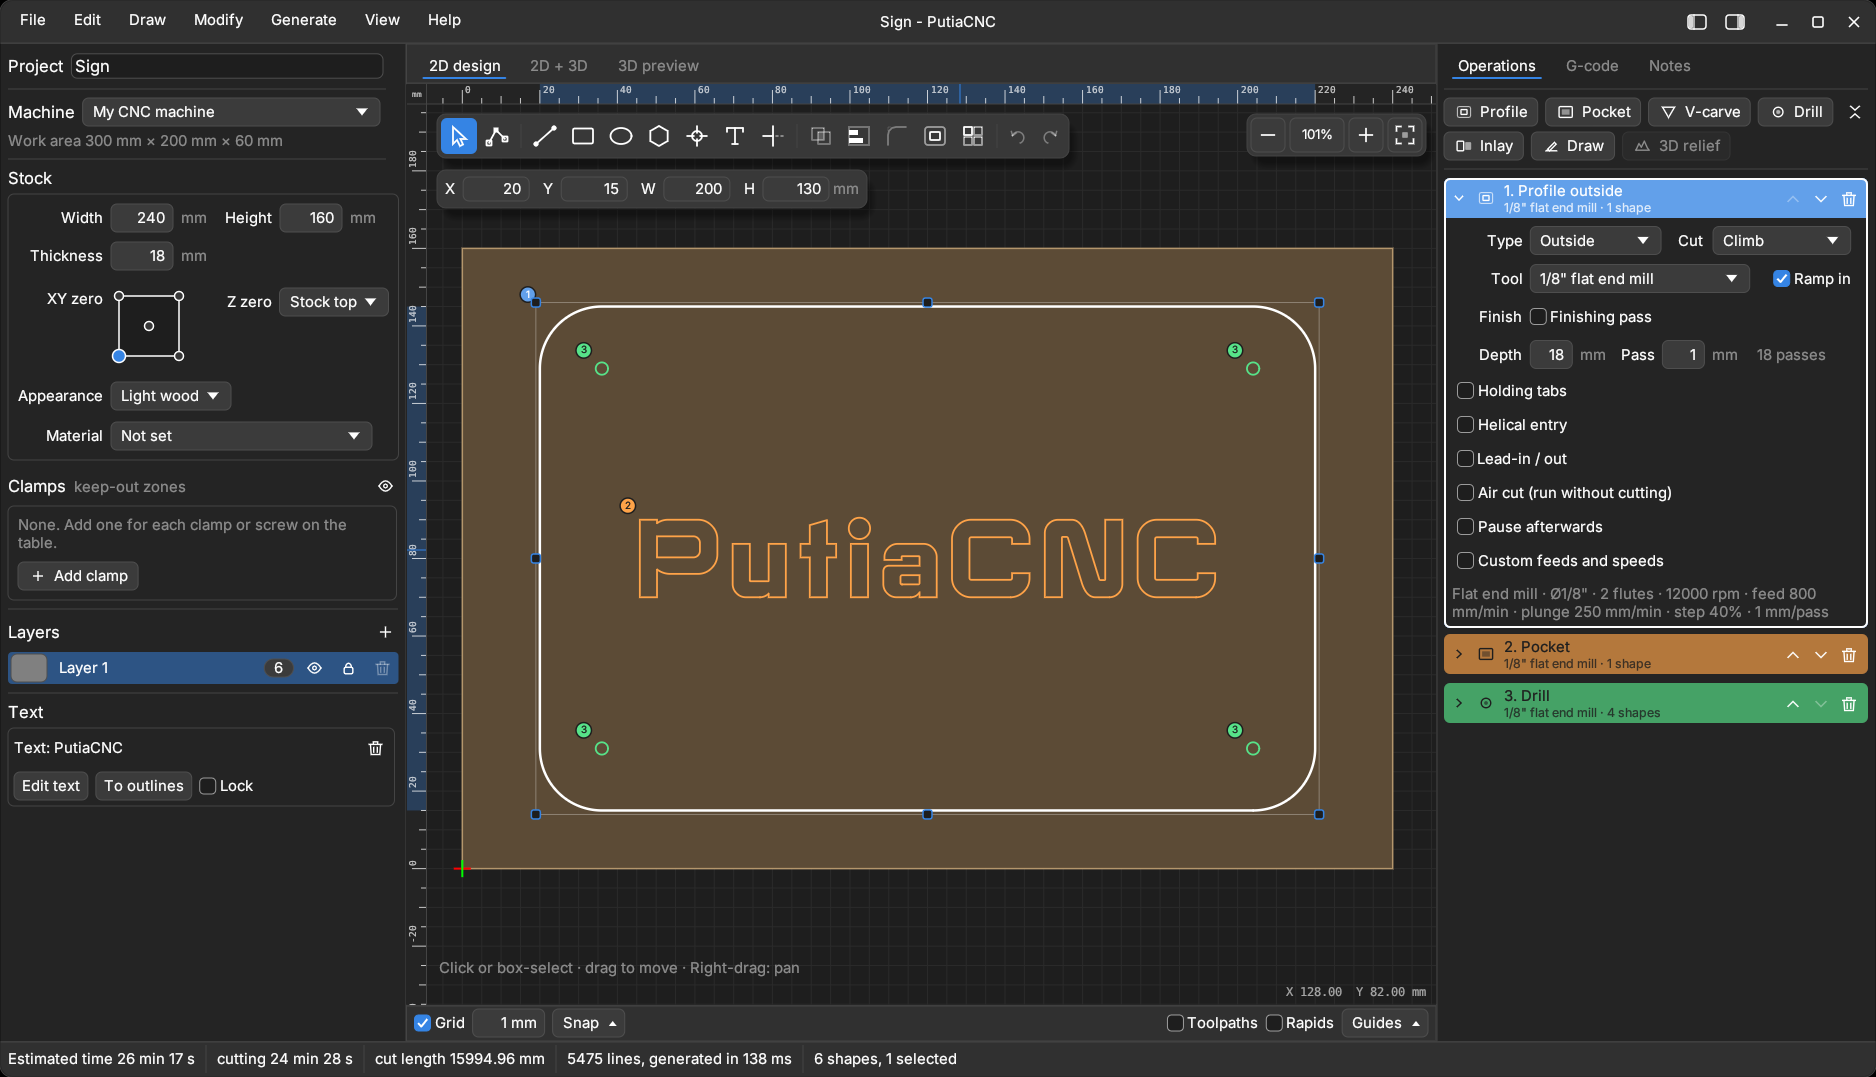
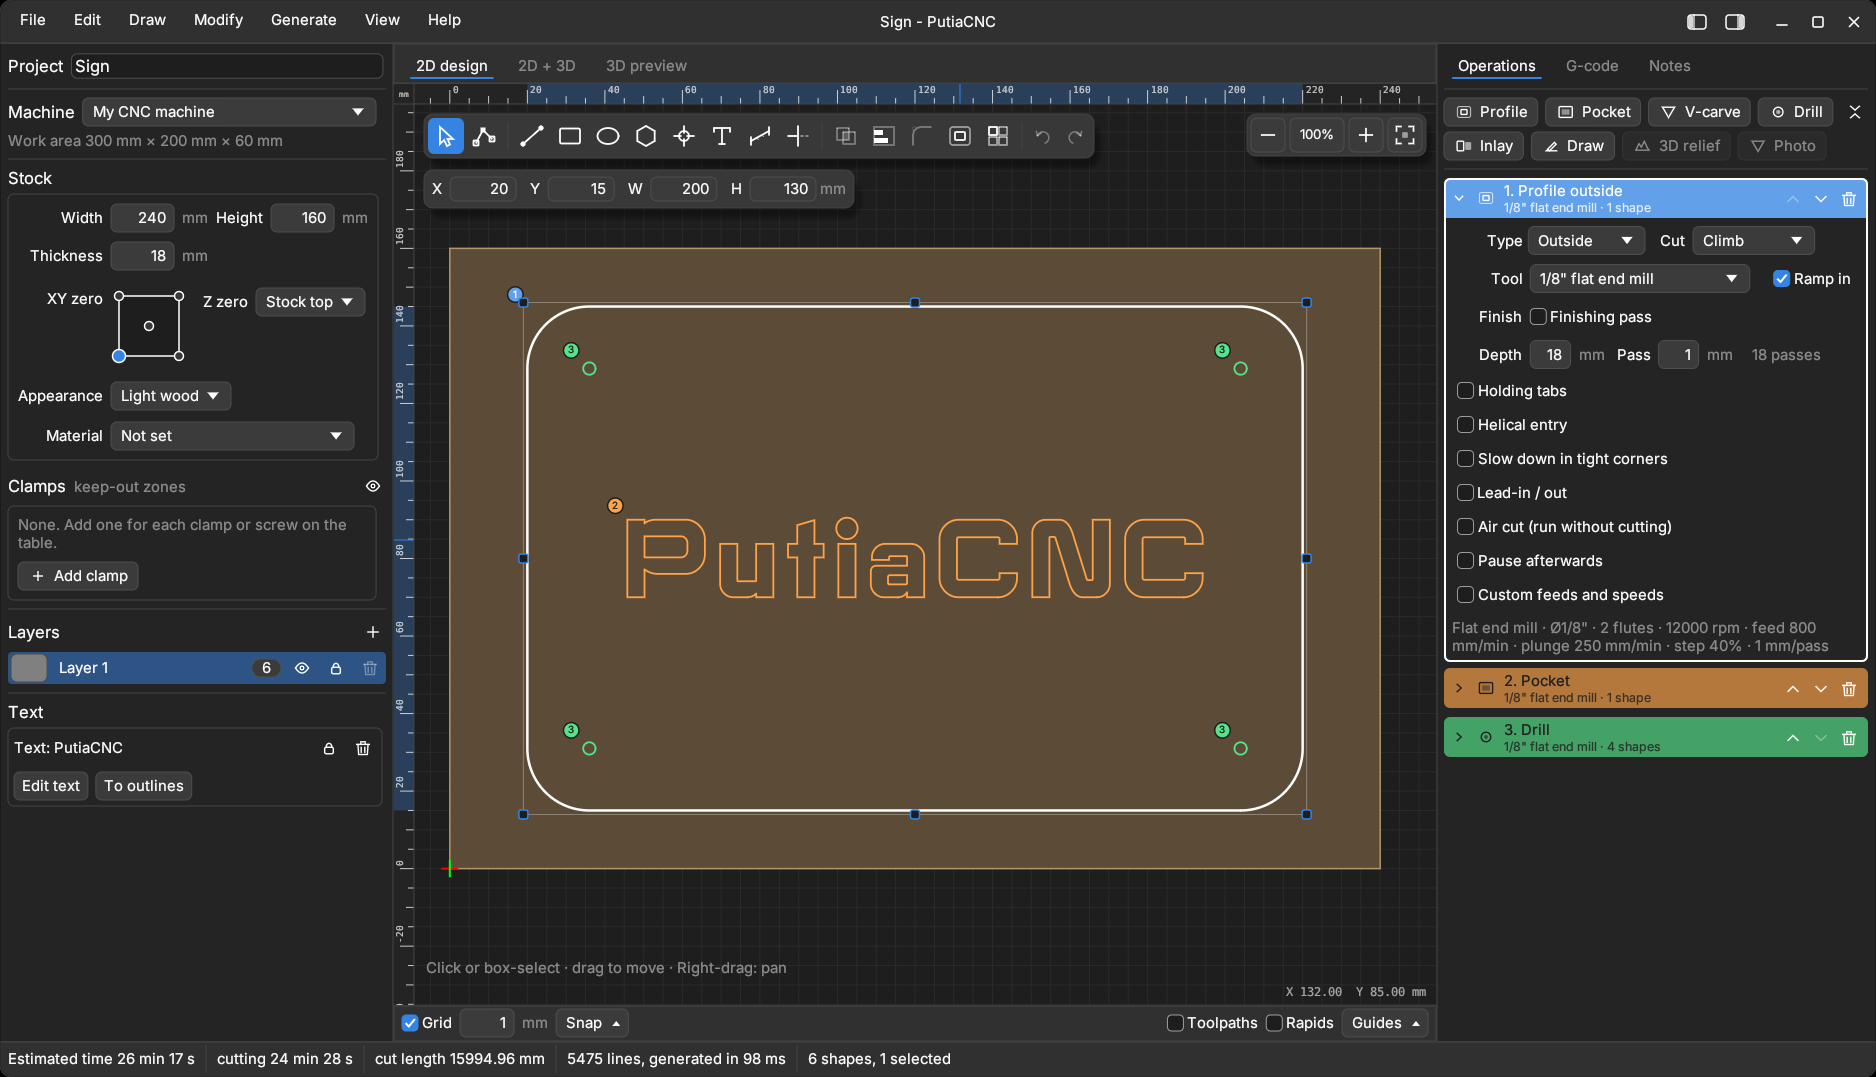
Docs: new screenshots, captions and project page text (#42)
New README / project page screenshots from 0.7.4, with the captions
updated to match. The project page text catches up with the README:
Marlin output, pen drawing, photo V-carve, pocket clearing options,
slowing down in corners, surfacing, units and languages. The
Screenshots workflow hides the toolpaths in the 3D shot and turns off
the update check.

Claude-Session: https://claude.ai/code/session_01J6kk3u45i17Q6y9jCcitHw

diff --git a/docs/index.html b/docs/index.html
@@ -4,7 +4,7 @@
 <meta charset="utf-8">
 <meta name="viewport" content="width=device-width, initial-scale=1">
 <title>PutiaCNC – free CNC toolpath studio for GRBL</title>
-<meta name="description" content="PutiaCNC is a free, open-source CNC toolpath studio for GRBL, Mach3 and LinuxCNC machines. Draw or import shapes, add profile, pocket, V-carve, drill and inlay operations, preview the cut in 3D and export G-code. Linux, macOS and Windows.">
+<meta name="description" content="PutiaCNC is a free, open-source CNC toolpath studio for GRBL, Mach3, LinuxCNC and Marlin machines. Draw or import shapes, add profile, pocket, V-carve, drill and inlay operations, preview the cut in 3D and export G-code. Linux, macOS and Windows.">
 <link rel="icon" href="favicon.ico" sizes="48x48">
 <link rel="icon" type="image/png" href="favicon-48.png" sizes="48x48">
 <link rel="icon" type="image/png" href="icon-192.png" sizes="192x192">
@@ -24,7 +24,7 @@
   "name": "PutiaCNC",
   "applicationCategory": "DesignApplication",
   "operatingSystem": "Linux, macOS, Windows",
-  "description": "CNC toolpath studio for GRBL, Mach3 and LinuxCNC machines: draw or import shapes, add operations, preview the cut in 3D and export G-code.",
+  "description": "CNC toolpath studio for GRBL, Mach3, LinuxCNC and Marlin machines: draw or import shapes, add operations, preview the cut in 3D and export G-code.",
   "url": "https://tonyrh.github.io/putiacnc/",
   "downloadUrl": "https://github.com/tonyrh/putiacnc/releases",
   "license": "https://www.gnu.org/licenses/gpl-3.0.html",
@@ -85,7 +85,7 @@
     <img src="banner-light.png" alt="PutiaCNC" width="960" height="240">
   </picture>
   <h1>A free CNC toolpath studio for GRBL machines</h1>
-  <p class="lead">Draw or import shapes, assign operations (profile, pocket, V-carve, drill, inlay, 3D relief), preview the cut in a simulated 3D view of the machined stock, and export G-code. Mach3 and LinuxCNC output too. Written in Rust, open source.</p>
+  <p class="lead">Draw or import shapes, assign operations (profile, pocket, V-carve, drill, inlay, 3D relief, pen drawing, photo V-carve), preview the cut in a simulated 3D view of the machined stock, and export G-code. Mach3 / LinuxCNC and Marlin output too. Written in Rust, open source.</p>
   <div class="cta">
     <a class="btn primary" href="https://github.com/tonyrh/putiacnc/releases">Download</a>
     <a class="btn secondary" href="https://github.com/tonyrh/putiacnc" aria-label="Source on GitHub"><svg viewBox="0 0 16 16" aria-hidden="true"><path d="M8 0C3.58 0 0 3.58 0 8c0 3.54 2.29 6.53 5.47 7.59.4.07.55-.17.55-.38 0-.19-.01-.82-.01-1.49-2.01.37-2.53-.49-2.69-.94-.09-.23-.48-.94-.82-1.13-.28-.15-.68-.52-.01-.53.63-.01 1.08.58 1.23.82.72 1.21 1.87.87 2.33.66.07-.52.28-.87.51-1.07-1.78-.2-3.64-.89-3.64-3.95 0-.87.31-1.59.82-2.15-.08-.2-.36-1.02.08-2.12 0 0 .67-.21 2.2.82.64-.18 1.32-.27 2-.27.68 0 1.36.09 2 .27 1.53-1.04 2.2-.82 2.2-.82.44 1.1.16 1.92.08 2.12.51.56.82 1.27.82 2.15 0 3.07-1.87 3.75-3.65 3.95.29.25.54.73.54 1.48 0 1.07-.01 1.93-.01 2.2 0 .21.15.46.55.38A8.013 8.013 0 0016 8c0-4.42-3.58-8-8-8z"/></svg>Source</a>
@@ -96,12 +96,12 @@
 <main class="wrap">
   <figure>
     <img src="screenshot-2d.png" alt="PutiaCNC 2D design: a rounded plate with a pocketed name and four drilled holes" width="1876" height="1077">
-    <figcaption>2D design: draw or import shapes, assign them to profile, pocket, V-carve or drill operations, and set depth, tabs and tools.</figcaption>
+    <figcaption>2D design: draw or import shapes, assign them to profile, pocket, V-carve, drill or inlay operations, and set the tool, depth, passes and options such as tabs, ramping and lead-in.</figcaption>
   </figure>
 
   <figure>
     <img src="screenshot-3d.png" alt="PutiaCNC 3D preview: the finished cut in light wood" width="1876" height="1077" loading="lazy">
-    <figcaption>3D preview: the toolpath is replayed on the stock, so you can check the result before sending the G-code to the machine.</figcaption>
+    <figcaption>3D preview: the job is replayed on the stock, so you can check the finished cut before sending the G-code to the machine.</figcaption>
   </figure>
 
   <figure>
@@ -123,12 +123,12 @@
 
   <h2>What it does</h2>
   <div class="grid">
-    <div class="card"><h3>Drawing</h3><p>Rectangles, ellipses, lines, polygons, stars, bolt circles, point grids and editable text in any installed font (straight, on an arc or following a shape), and layers. Import SVG, DXF, bitmaps (traced into outlines or centre lines) and STL / OBJ models for 3D relief, or build a relief from your own shapes with a flat, rounded, dome or slope profile. Mirror, align, array and nest.</p></div>
+    <div class="card"><h3>Drawing</h3><p>Rectangles, ellipses, lines, polygons, stars, bolt circles, point grids and editable text in any installed font or a single-line font for pen drawing (straight, on an arc, or inside or round the outside of a shape), and layers. Import SVG, DXF, bitmaps (traced into outlines or centre lines) and STL / OBJ models for 3D relief, or build a relief from your own shapes with a flat, rounded, dome or slope profile. Mirror, align, array and nest.</p></div>
     <div class="card"><h3>Editing</h3><p>Object snap, typed values, node editing, trim and extend, fillet and chamfer, offset, combine, align, array, rotate, groups, nesting on the stock, and clean-up of broken outlines (join loose ends, simplify outlines with too many points).</p></div>
-    <div class="card"><h3>Operations</h3><p>Profile (outside, inside, on the line), pocket, V-carve, drill, inlay and 3D relief, each with its own tool, depth, passes, ramp-in, holding tabs, lead-in / lead-out and air cut. Rest machining, finishing passes, adaptive clearing, and V-carve with a flat floor.</p></div>
+    <div class="card"><h3>Operations</h3><p>Profile (outside, inside, on the line), pocket, V-carve, drill, inlay, 3D relief, drawing with a pen and photo V-carve, each with its own tool, depth, passes, ramp-in, holding tabs, lead-in / lead-out and air cut. Rest machining, finishing passes, helical entry, pocket clearing in rings, adaptive or trochoidal, slowing down in tight corners, V-carve with a flat floor, and surfacing the stock.</p></div>
     <div class="card"><h3>Preview and checks</h3><p>2D canvas and simulated 3D stock with a play bar. Warnings for cuts too deep, into the table or clamps, outside the machine area, and rapids through material, all in one list. The G-code is always written; the warnings only inform, and exporting with warnings you haven't seen asks first.</p></div>
-    <div class="card"><h3>Tools and machines</h3><p>Tool libraries (imperial and metric, with ready-made CMT, Amana, Bosch, Freud, Whiteside and Diablo sets), chip-load estimate, and machine profiles (GRBL or Mach3 / LinuxCNC, work coordinates G54 to G59, acceleration and top speeds) with your own start and end G-code. Pick your machine from the catalogue or paste Grbl's <code>$$</code> output to fill it in.</p></div>
-    <div class="card"><h3>Everything else</h3><p>G-code tab with time estimate, five sample projects, a printable setup sheet, project notes, keyboard shortcuts, light and dark themes, and projects saved as plain JSON files.</p></div>
+    <div class="card"><h3>Tools and machines</h3><p>Tool libraries (imperial and metric, with ready-made CMT, Amana, Bosch, Freud, Whiteside and Diablo sets), chip-load estimate, and machine profiles (GRBL, Mach3 / LinuxCNC or Marlin, work coordinates G54 to G59, acceleration and top speeds) with your own start and end G-code. Pick your machine from the catalogue or paste Grbl's <code>$$</code> output to fill it in.</p></div>
+    <div class="card"><h3>Everything else</h3><p>G-code tab with time estimate, five sample projects, a printable setup sheet, project notes, keyboard shortcuts, light and dark themes, millimetres or inches (decimals or fractions), English and Italian, and projects saved as plain JSON files.</p></div>
   </div>
   <p style="margin-top:16px">See what it makes in the <a href="gallery.html">gallery</a>. The full list, with every option, is in the <a href="https://github.com/tonyrh/putiacnc/blob/main/docs/features.md">feature guide</a>.</p>
 

diff --git a/README.md b/README.md
@@ -12,10 +12,10 @@ A CNC toolpath studio for GRBL machines (with Mach3 / LinuxCNC and Marlin output
 stock, and export G-code. Projects are saved as JSON files (`"app": "putia-cnc"`).
 
 ![2D design: a rounded plate with a pocketed name and four drilled holes](docs/screenshot-2d.png)
-*2D design: draw or import shapes, assign them to profile, pocket, V-carve or drill operations, and set depth, tabs and tools.*
+*2D design: draw or import shapes, assign them to profile, pocket, V-carve, drill or inlay operations, and set the tool, depth, passes and options such as tabs, ramping and lead-in.*
 
 ![3D preview: the finished cut in light wood](docs/screenshot-3d.png)
-*3D preview, here in inches shown as fractions (millimetres, decimal inches and fractions are a setting): the toolpath is replayed on the stock (shown once every operation has run), so you can check the result before sending the G-code to the machine.*
+*3D preview, here in inches shown as fractions (millimetres, decimal inches and fractions are a setting): the job is replayed on the stock, so you can check the finished cut before sending the G-code to the machine.*
 
 https://github.com/user-attachments/assets/125b44a8-97f7-4a43-9ab0-32ccd8410e06
 
@@ -44,7 +44,7 @@ The workspace has two crates:
 - Profile (outside, inside, on the line), pocket, V-carve, drill, inlay, drawing with a pen, 3D relief and photo V-carve (a picture etched with a V-bit), each with its own tool, depth, pass depth, cut direction, ramp-in, holding tabs, lead-in / lead-out and air cut.
 - Rest machining: a smaller flat cutter clears only the corners and narrow parts the pocket's main cutter could not reach. A smaller ball nose does the same for the detail of a 3D relief.
 - Finishing pass: leave a little stock on the walls of a profile or pocket and cut them to size in a last pass. For a 3D relief the finishing lines can run along X, along Y or both.
-- Helical entry for pockets and profiles, and adaptive clearing for pockets (a light stepover and rounded inner rings). Nest on the stock packs the selected parts by their outlines, turned as you allow, clear of the clamps. The time estimate can use the machine's acceleration. Tab and Shift+Tab stay inside the operation card you are in.
+- Helical entry for pockets and profiles. Pockets are cleared with rings, adaptive clearing (a light stepover and rounded inner rings) or trochoidal circles along the walls, and profiles and pockets can slow down in tight corners. Nest on the stock packs the selected parts by their outlines, turned as you allow, clear of the clamps. The time estimate can use the machine's acceleration. Tab and Shift+Tab stay inside the operation card you are in.
 - V-carve can leave a flat floor at a depth you choose and clear it with a flat end mill, each tool with its own feeds and speeds.
 - Surface the stock or the spoilboard with a wide cutter (Generate → Surface the stock).
 - Flat, bull, ball, V-bit, engraving, tapered ball and arc profile bits, shown with their real shape in the 3D preview.
